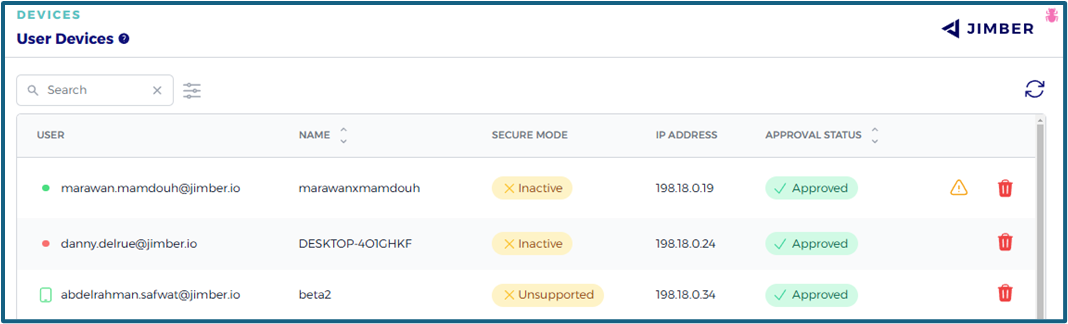
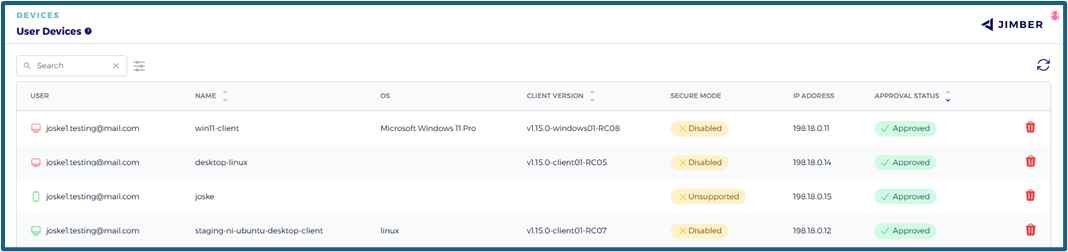
23the of January 4.45 pm

diff --git a/devices/userdevices/userdevices.md b/devices/userdevices/userdevices.md
@@ -158,15 +158,12 @@ If you're yet to have a login, please reach out to your network administrator to
 
 In the overview of user devices, you can see who is online or offline:
 
-- A user device online will appear at the top of the list in the overview with a green dot.
-- A user device offline will appear in the overview with a red dot.
+- A user device online will appear at the top of the list in the overview with a green pc icon.
+- A user device offline will appear in the overview with a red pc icon.
+- A mobile user device online will appear in the overview with a green mobile device icon. 
 - A user device that requires an update will appear in the overview with a yellow warning triangle.
-- A green rectangle in the overview is a mobile user device.
 
 ![overview userdevices.png](overviewuserdevices.png ':size=800')
-
-<!-- ![overview_userdevices.png](overview_userdevices.png ':size=800') -->
- 
 
 
 ## Delete user device

diff --git a/rules/scripts/scripts.md b/rules/scripts/scripts.md
@@ -17,6 +17,8 @@ Name must be between 3 and 253 characters.
 
 Depending on the platform, the script must be written in PowerShell (Windows) or Bash Script (other platforms).
 
+Different scripts can be executed when a client or server connects to or disconnects from Signal, depending on the selected platform.
+
 ## Edit User Device Script
 
 Scripts can be edited by clicking on the yellow pencil icon next to their name ![icon_edit.png](/icon_edit.png ':size=35').

diff --git a/rules/services/services.md b/rules/services/services.md
@@ -41,6 +41,10 @@ In any case, you will receive a warning if the service was not submitted:
 
 ![unsaved_changes.png](/unsaved_changes.png ':size=400')
 
+
+After creating the service you can switch to [Attribute Services](/./rules/attribute_services/attribute_services.md) to specify the details of the service.
+
+
 ## Edit Service
 Services can be edited by clicking on the yellow pencil icon next to their name 
 ![icon_edit.png](/icon_edit.png ':size=35').
